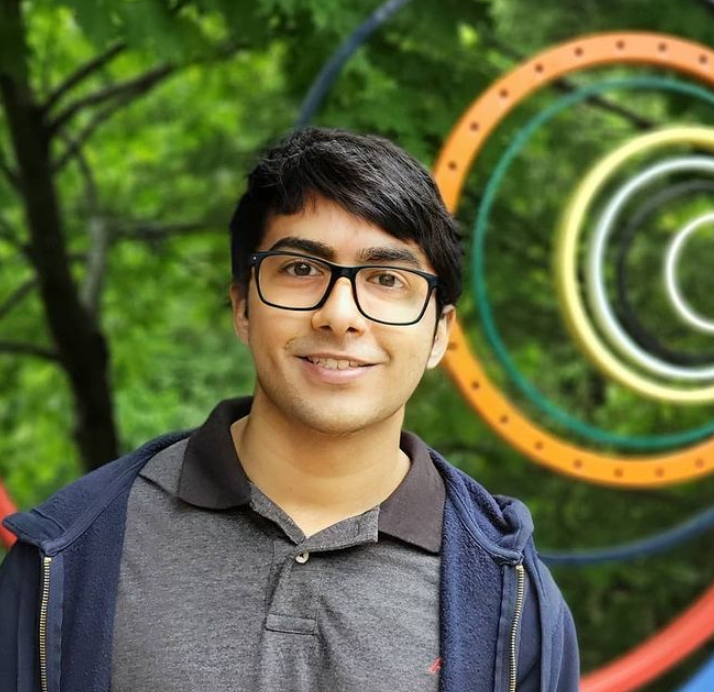
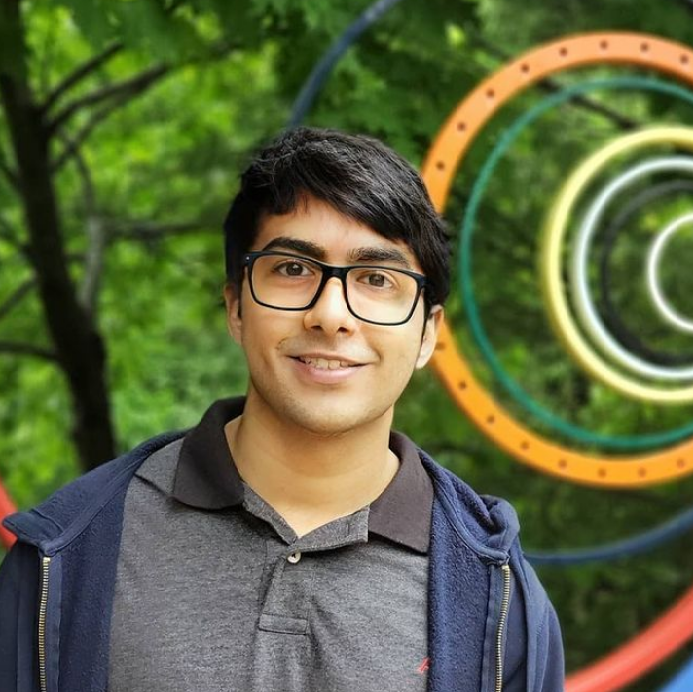
iliya edit members

diff --git a/index.html b/index.html
@@ -400,7 +400,21 @@
                         <p>I focus on utilizing digital ledger technologies for developing secure, traceable and trust oriented data sharing applications  for food supply chains. My area of research lies in the overlap of blockchains, machine learning and big data technologies. During my time here, I have been focussing on using decentralized ledger technnologies to collect and process big data for beef supply chain.   </p>
                         <p>Email: <a href="mailto:alisalm1@msu.edu">alisalm1 AT msu DOT edu</a></p>       
                     </div>
-                        <div class="col-sm-4 sm-margin-b-50">
+
+                    <div class="col-sm-4 sm-margin-b-50">
+                        <div class="bg-color-white margin-b-20">
+                            <div class="wow zoomIn" data-wow-duration=".3" data-wow-delay=".1s" style="visibility: hidden; animation-delay: 0.1s; animation-name: none;">
+                                <img class="img-responsive" src="./index_files/iliya.png" alt="Team Image">
+                            </div>
+                        </div>
+                        <h4><a href="#">Iliya Miralavy</a> <span class="text-uppercase margin-l-20">Graduate Student</span></h4>
+                        <p>I am CSE PhD student and a researcher at BEACON. I'm interested in bio-inspired algorithms and applying them on complex real life problems. I'm currently working on underpinning computational gene regulatory networks with artificial chemistry, developing a GP for Python code synthesis, Automation in Factorio and POET: Protein Optimization Evolving Tool. I love coding and implementing my ideas specially on computer games!
+                        </p>
+                        <p>Email: <a href="mailto:miralavy@msu.edu">miralavy AT msu.edu</a></p>
+                        <!-- <a href="https://www.researchgate.net/profile/URLTARGET" target="_blank"> <i class="fab fa-researchgate fa-2x"></i></a> -->
+                    </div>
+
+                    <div class="col-sm-4 sm-margin-b-50">
                         <div class="bg-color-white margin-b-20">
                             <div class="wow zoomIn" data-wow-duration=".3" data-wow-delay=".1s" style="visibility: hidden; animation-delay: 0.1s; animation-name: none;">
                                 <img class="img-responsive" src="./index_files/honglin.png" alt="Team Image">
@@ -425,6 +439,8 @@
                         <a href="https://www.linkedin.com/in/stella-li-1106/" target="_blank"><i class="fab fa-linkedin fa-2x"></i></a>
                         <a href="https://github.com/stellali7" target="_blank"><i class="fab fa-github-square fa-2x"></i></a>
                     </div>
+
+
                 </div>
                 <!--// end row -->
                 
